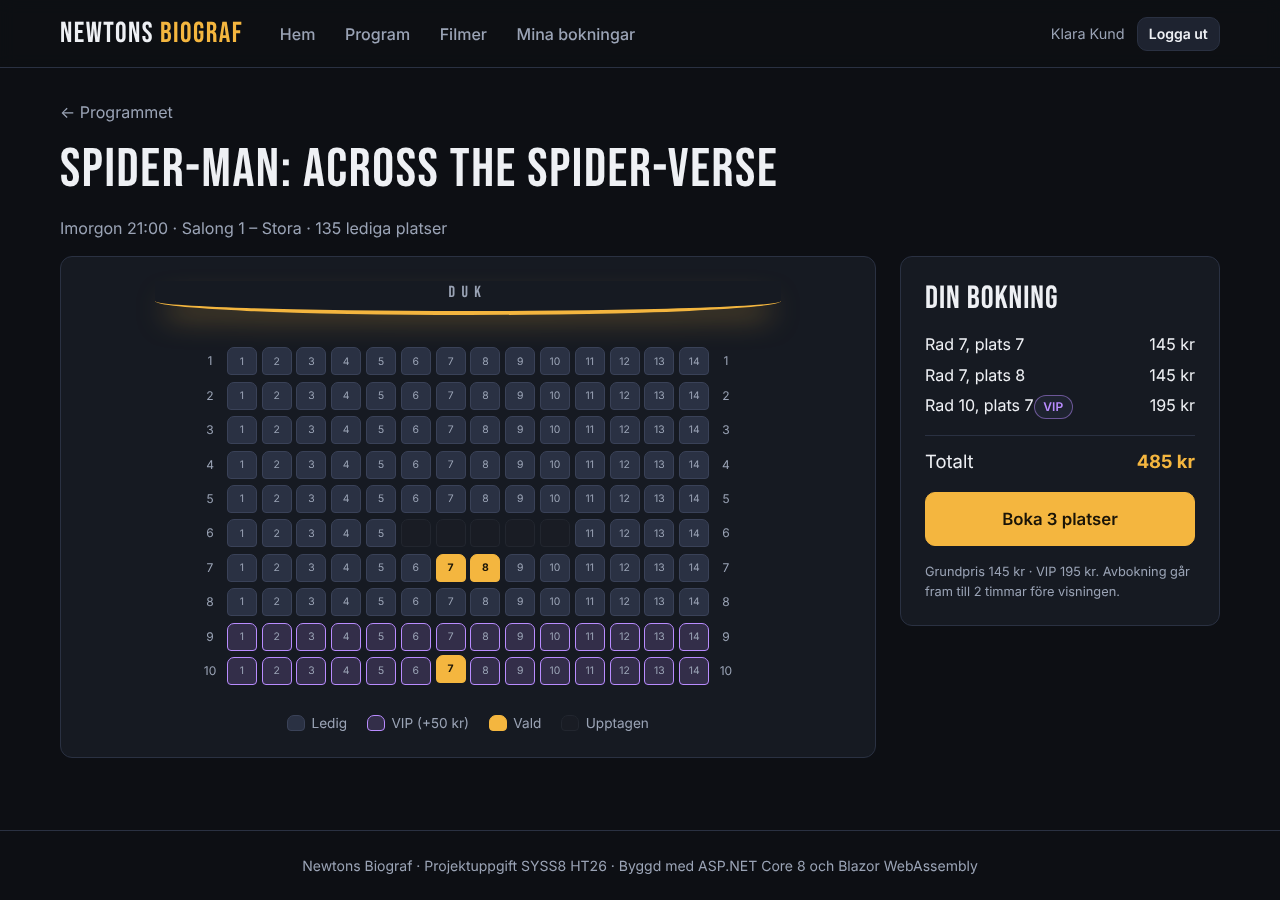
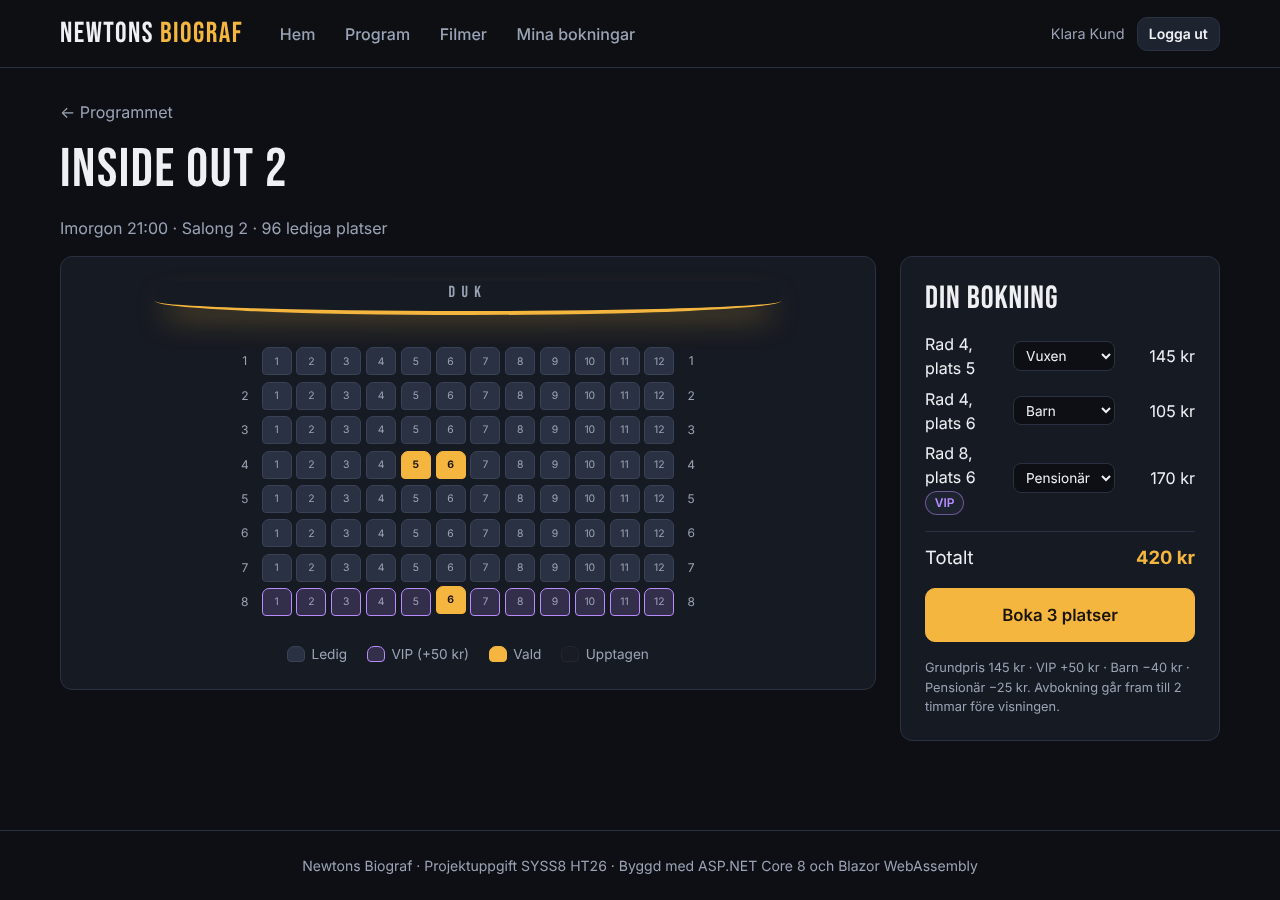
Dokumentera ändringshanteringen och biljettyperna
README har fått ett avsnitt om ändringshantering, nya prisregler och en uppdaterad skärmdump. testscenarier.md beskriver T1–T5.

Closes #32

Claude-Session: https://claude.ai/code/session_01VEEqu82onCFQuxzyZotm8N

diff --git a/README.md b/README.md
@@ -17,6 +17,7 @@ Projektuppgift i kursen *Ämnesövergripande projekt* (SYSS8, HT26) på Newton.
 - [Arkitektur](#arkitektur)
 - [Generics, delegates/events, LINQ och async](#generics-delegatesevents-linq-och-async)
 - [Tester](#tester)
+- [Ändringshantering](#ändringshantering)
 - [Arbetssätt](#arbetssätt)
 
 ---
@@ -38,6 +39,7 @@ Projektuppgift i kursen *Ämnesövergripande projekt* (SYSS8, HT26) på Newton.
 
 - Ett säte kan bara vara bokat en gång per visning. Det garanteras av ett unikt index i databasen, även vid samtidiga bokningar.
 - VIP-platserna (de bakersta raderna) kostar grundpriset + 50 kr.
+- Biljettyp väljs per plats: **Vuxen** (grundpris), **Barn** (−40 kr) och **Pensionär** (−25 kr). Barnbiljetter säljs inte till filmer från 15 år. Priset räknas i en enda delad funktion (`Priser.Berakna`), så webbappen och API:t räknar alltid lika.
 - Två visningar i samma salong får inte överlappa. Kontrollen räknar med filmens längd plus 20 minuters städtid.
 - Kunden kan avboka fram till 2 timmar före visningen, och avbokade platser blir lediga igen.
 - En salongs platslayout kan inte ändras när den har visningar, och filmer eller salonger med visningar kan inte tas bort.
@@ -97,7 +99,7 @@ Klara vill gå på bio med en kompis på fredag kväll och sitta bra.
 
 1. Hon öppnar **Program**, väljer fredag i dagväljaren och filtrerar på genren *Action*.
 2. Hon klickar på tiden 21:00 för *Top Gun: Maverick*. Säteskartan för Salong 1 visas med duken längst fram, de lediga platserna och de lila VIP-raderna längst bak. Upptagna platser går inte att välja.
-3. Hon väljer två bredvid varandra i rad 9 (VIP). Sammanfattningen visar 195 kr per plats och totalt 390 kr.
+3. Hon väljer två bredvid varandra i rad 9 (VIP). Kompisen är pensionär, så hon byter biljettyp på den ena platsen till *Pensionär*. Sammanfattningen visar 195 kr + 170 kr, totalt 365 kr.
 4. Eftersom hon inte är inloggad står det **Logga in för att boka**. Hon registrerar sig, loggas in direkt och kommer tillbaka till samma visning.
 5. Hon klickar **Boka 2 platser** och får bekräftelsen med bokningsnumret, t.ex. `NB-7K2Q9`.
 
@@ -177,7 +179,7 @@ src/
     Services/      ApiKlient, JwtAuthStateProvider, TokenLagring, Datumtext, Url
   Biograf.Shared/  DTO:er, Roller, Priser, Bokningsregler
 tests/
-  Biograf.Tests/   31 scenariotester
+  Biograf.Tests/   41 scenariotester
 docs/
   testscenarier.md
 ```
@@ -207,7 +209,7 @@ Uppgiften kräver minst tre av teknikerna. Alla fyra används:
 ## Tester
 
 ```bash
-dotnet test     # 31 tester
+dotnet test     # 41 tester
 ```
 
 Testerna är skrivna som scenarier (Givet/När/Så) och dokumenterade i **[docs/testscenarier.md](docs/testscenarier.md)**. De täcker:
@@ -217,6 +219,21 @@ Testerna är skrivna som scenarier (Givet/När/Så) och dokumenterade i **[docs/
 - inloggning och rollskydd via riktiga HTTP-anrop
 
 Tjänstetesterna körs mot SQLite i minnet, så att index och transaktioner fungerar som i den riktiga databasen.
+
+## Ändringshantering
+
+Ingen ändringsbegäran kom in från kund eller ASK under projektet. För att öva processen formulerades därför en egen, **simulerad ändringsbegäran**, som om den kom från biografens ledning efter sprint 3. Det står tydligt i issuet.
+
+> *"Vi vill kunna ta olika pris för barn och pensionärer. Kunden ska välja biljettyp per plats, och barnbiljetter ska inte gå att köpa till filmer från 15 år."* (#32)
+
+**Så hanterades den**
+1. **Registrering:** ett eget issue (#32) med etiketten `change-request`, acceptanskriterier och en **konsekvensanalys** av vilka lager som påverkas (databas, Shared, API, klient, tester och dokumentation).
+2. **Bedömning:** en medelstor ändring som berör alla lager, men bara bokningsflödet. Den genomfördes i en egen branch och PR (#33).
+3. **Genomförande:**
+   - En ny kolumn `BokadPlats.Biljettyp` med en migration som ger befintliga bokningar typen *Vuxen*, så att ingen data går förlorad.
+   - Prisregeln flyttades från `BokningTjanst` till `Priser.Berakna` i Shared. Klienten räknade tidigare VIP-priset själv, och nu används samma kod på båda sidor.
+   - `SkapaBokningDto` gick från en lista med säte-id till en lista med säte + biljettyp. Det är en **brytande API-ändring**, så alla anrop och tester uppdaterades i samma PR.
+4. **Verifiering:** de befintliga 31 testerna skrevs om till den nya DTO:n och gick fortfarande igenom. 10 nya tester (T1–T5) täcker priserna och barnregeln, och flödet testades manuellt i webbläsaren.
 
 ## Arbetssätt
 
@@ -228,6 +245,7 @@ Tjänstetesterna körs mot SQLite i minnet, så att index och transaktioner fung
 | 2 – Auth & admin | 13 okt | Identity + JWT, roller, användarhantering, CRUD för filmer, salonger och visningar | #4–#8 | #19–#23 |
 | 3 – Frontend | 13 okt | Boknings-API, design, sök och filter, säteskarta, mina bokningar, adminpanel | #9–#13 | #24–#29 |
 | 4 – Kvalitet | 14 okt | Tester, dokumentation, databas | #14–#15 | #30–#31 |
+| Ändring | 16 okt | Ändringsbegäran: biljettyper | #32 | #33 |
 
 - **Git:** en branch per issue (`feature/<nr>-<namn>`) och små commits med beskrivande meddelanden på svenska. Varje issue mergades till `main` via en pull request med beskrivning och testresultat, och PR:en stängde sitt issue.
 - **Roller:** projektet gjordes individuellt, så samma person hade rollerna Scrum Master, Tech Lead och testansvarig.

diff --git a/docs/testscenarier.md b/docs/testscenarier.md
@@ -34,6 +34,18 @@ Varje test har ett id (B1, V1 …) i sitt `DisplayName` så att det går att kop
 | B8 | Lyssnare är kopplade till eventen `BokningSkapad` och `BokningAvbokad` | En bokning skapas och avbokas | Båda eventen utlöses i rätt ordning med rätt bokningsnummer |
 | B9 | En visning som började för 10 minuter sedan | Kunden försöker boka | Bokningen nekas som *Ogiltig* |
 
+## Biljettyper, ändringsbegäran #32 (`BiljettypTester.cs`)
+
+| Id | Givet | När | Så |
+|---|---|---|---|
+| T1 | Grundpris 120 kr | Priset räknas för Vuxen, Barn och Pensionär, med och utan VIP, samt Barn på en visning för 30 kr | 120 / 80 / 95, VIP 170 / 130, och lägst 0 kr (inget negativt pris) |
+| T2 | En barntillåten visning | Kunden bokar en vuxen-, en barn- och en pensionärsbiljett, den sista på en VIP-plats | Varje plats får rätt typ och pris (120, 80, 145), och totalen är 345 kr |
+| T3 | En film från 15 år | Kunden bokar en barnbiljett och sedan en vuxenbiljett | Barnbiljetten nekas som *Ogiltig* med ett förklarande meddelande, vuxenbiljetten lyckas |
+| T4 | – | Samma säte skickas två gånger i samma bokning | Nekas som *Ogiltig* |
+| T5 | En bokad pensionärsbiljett | Databasen och Mina bokningar läses | Biljettypen är sparad och visas |
+
+Bokningstesterna B1–B9 skrevs om till den nya `SkapaBokningDto` (plats + biljettyp) och fungerar som regressionstester. De gick igenom även efter ändringen.
+
 ## Visningar (`VisningTester.cs`)
 
 Den befintliga visningen börjar 18:00, filmen är 100 minuter och städtiden 20 minuter. Salongen är alltså upptagen 18:00–20:00.
